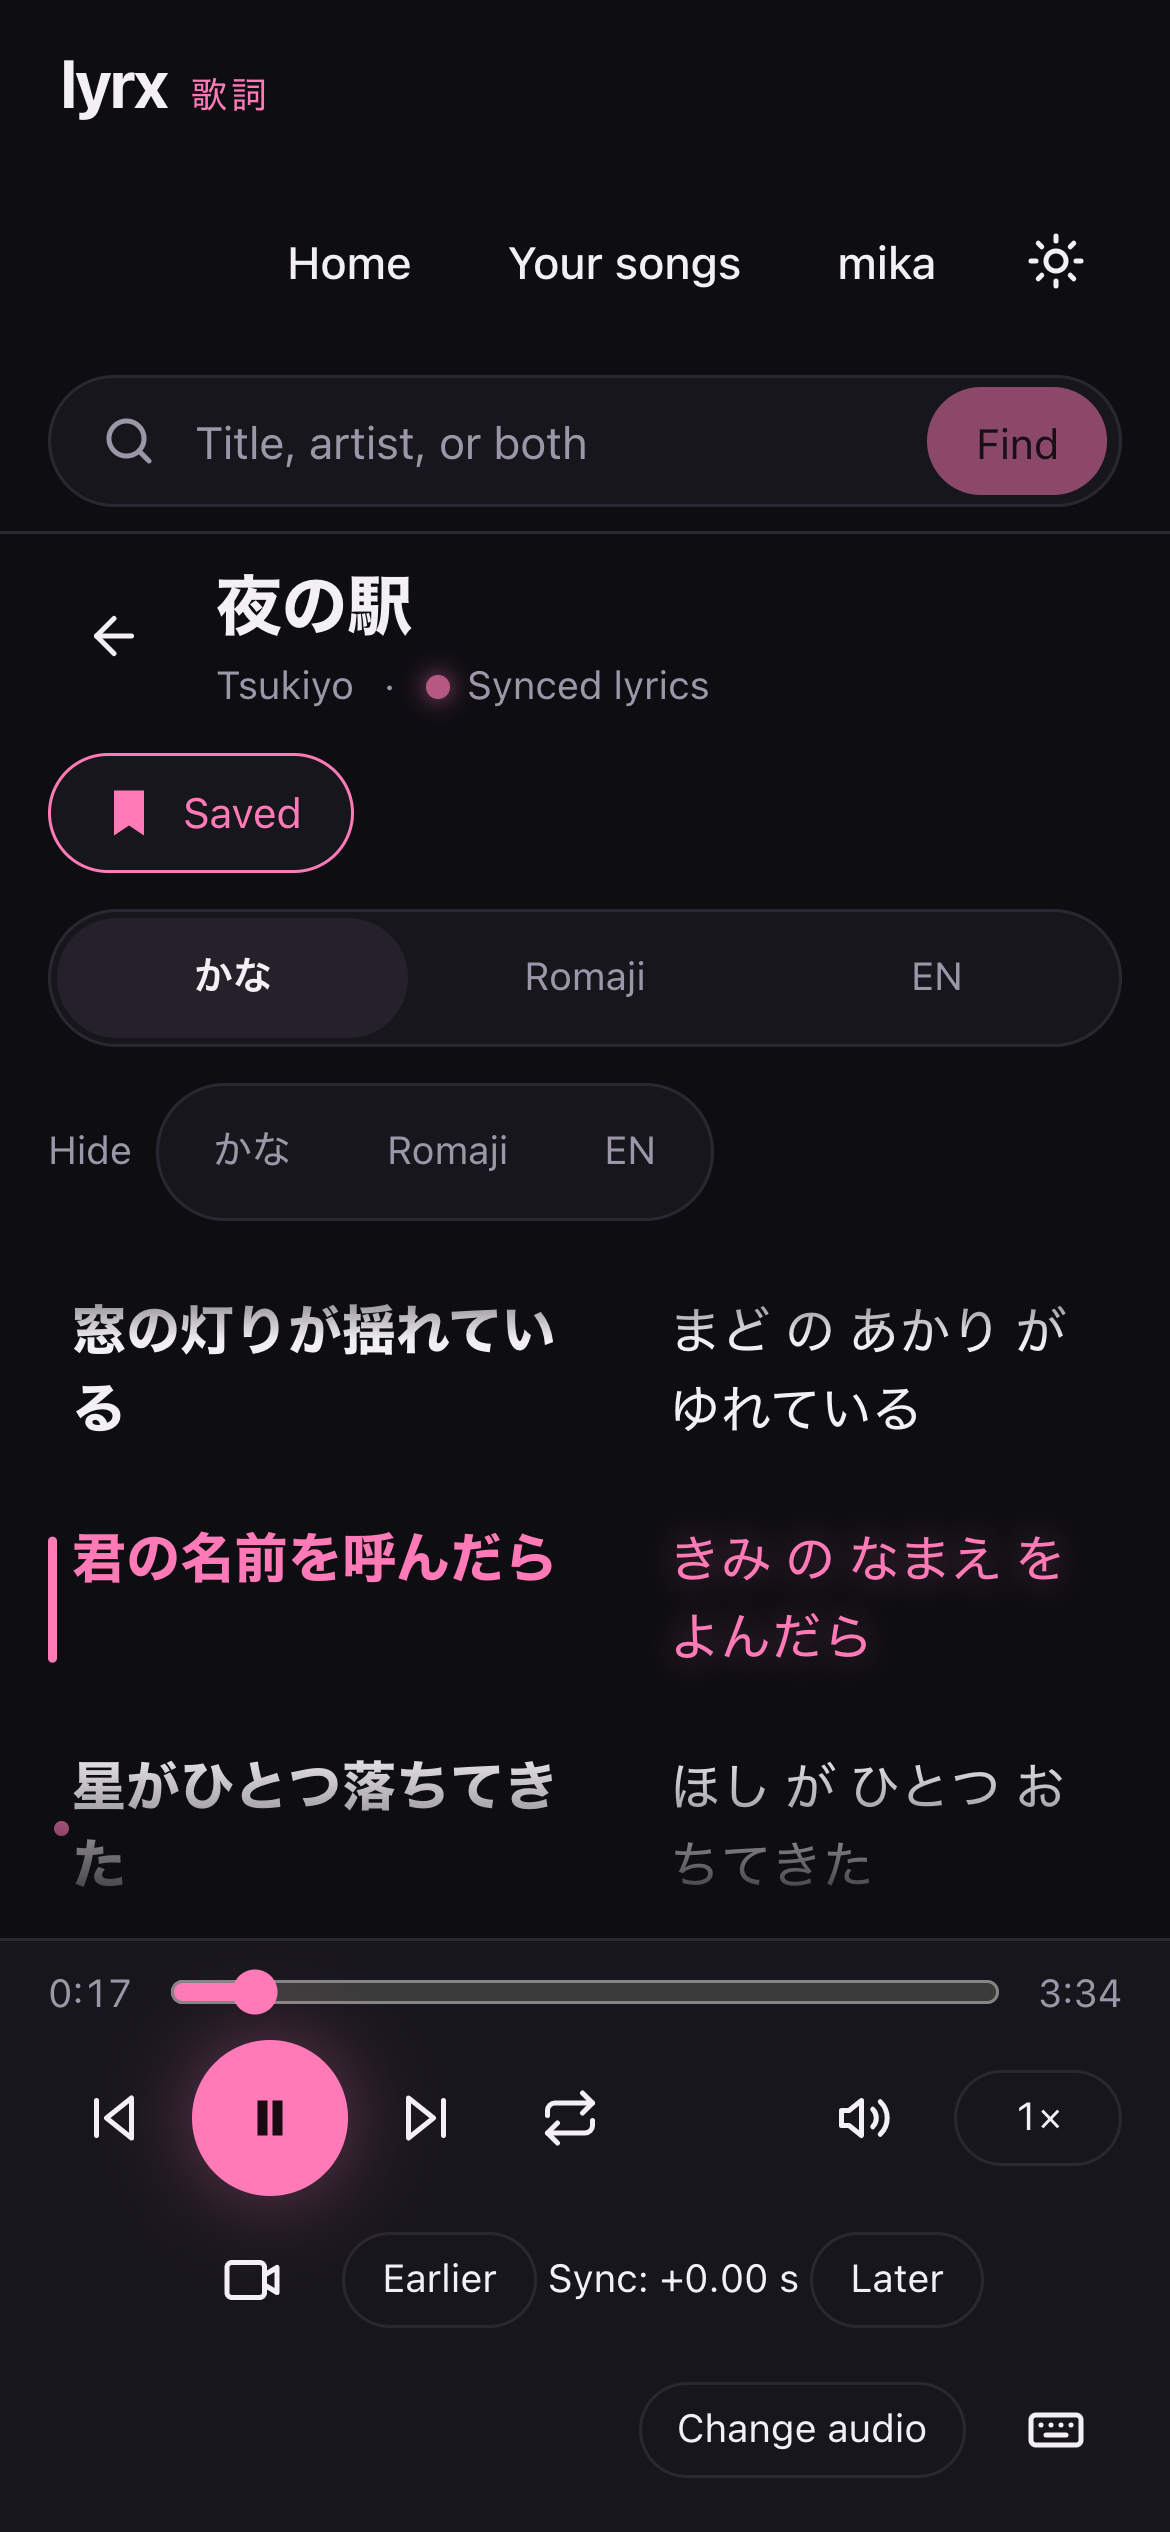
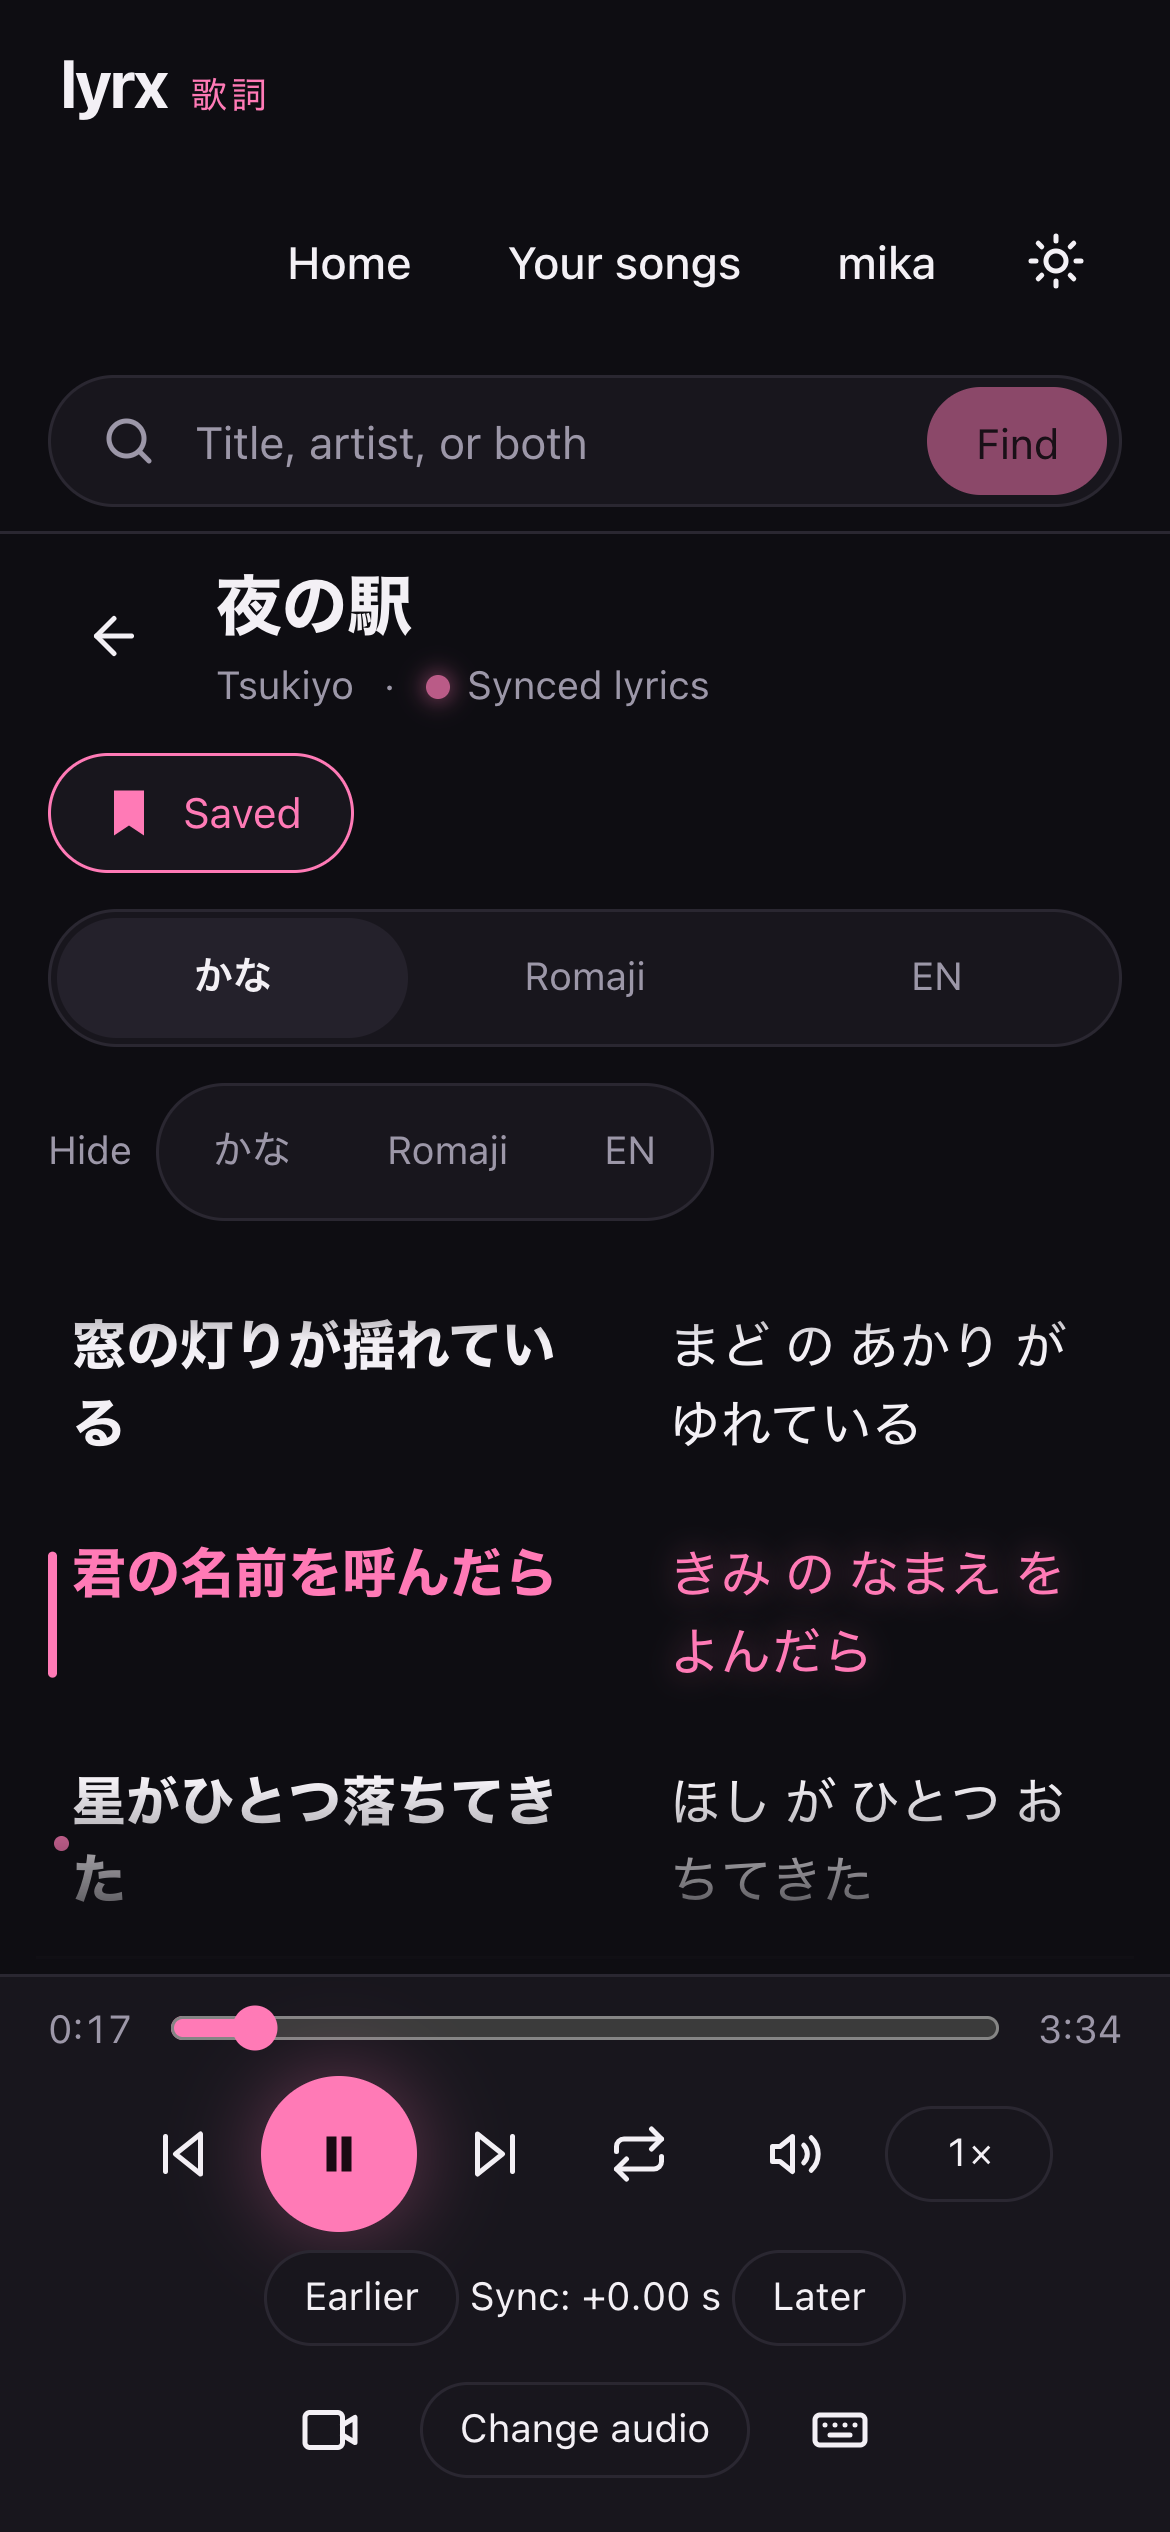
Spec 027: header search stays while loading, centered phone player bar, README tweaks, fresh media.

diff --git a/frontend/src/App.test.tsx b/frontend/src/App.test.tsx
@@ -501,6 +501,28 @@ test("AC-5: while searching, the steps and the seconds show", async () => {
   vi.useRealTimers();
 });
 
+test("searching from home keeps the header search box for the whole wait", async () => {
+  fakeFetch.mockImplementation((input, init) =>
+    urlOf(input) === "/api/song-search"
+      ? new Promise<Response>(() => undefined)
+      : Promise.resolve(
+          init?.method === undefined || init.method === "GET"
+            ? jsonResponse(
+                200,
+                urlOf(input) === "/api/account"
+                  ? { username: "mika" }
+                  : { songs: [] },
+              )
+            : jsonResponse(404, { code: "not_found", message: "x" }),
+        ),
+  );
+
+  await findSong();
+
+  expect(await screen.findByText(/Finding the song…/)).toBeTruthy();
+  expect(screen.getAllByRole("search")).toHaveLength(1);
+});
+
 test("the timing line says how long finding and the versions took", async () => {
   respond("POST /api/song-search", jsonResponse(200, { results: [bestMatch] }));
   respond("POST /api/song-versions", songReply(bestMatch));

diff --git a/frontend/src/styles.css b/frontend/src/styles.css
@@ -1665,7 +1665,8 @@ button:disabled {
     display: none;
   }
 
-  /* Two rows under the slider: transport and video, then sync and Change audio. */
+  /* Three centered rows under the slider: transport, Mute, and speed; then sync; then the video
+     toggle, Change audio, and the shortcuts button. */
   .player-bar {
     padding: 0.5rem 1rem 0.75rem;
   }
@@ -1679,12 +1680,10 @@ button:disabled {
     flex-basis: 100%;
   }
 
-  .transport {
-    flex: 1;
-  }
-
   .sync {
     order: 2;
+    flex-basis: 100%;
+    justify-content: center;
   }
 
   .link-form {
@@ -1707,9 +1706,9 @@ button:disabled {
     min-width: 5rem;
   }
 
+  .video-toggle,
   .change-audio {
     order: 3;
-    margin-left: auto;
   }
 
   /* On a phone the shortcuts button joins the row again, after Change audio. */

diff --git a/frontend/src/header/Header.tsx b/frontend/src/header/Header.tsx
@@ -9,7 +9,7 @@ import { ThemeButton } from "./ThemeButton";
 interface HeaderProps {
   busy: boolean;
   onSearch: (query: string) => void;
-  // False on the home page, which has its own large search box.
+  // False on the home page, which has its own large search box, except while a song loads.
   showSearch: boolean;
   // Which page is shown, so its link is marked as the current page.
   currentPage: Route["page"];

diff --git a/frontend/src/player/PlayerControls.tsx b/frontend/src/player/PlayerControls.tsx
@@ -158,7 +158,7 @@ export function PlayerControls(props: PlayerControlsProps) {
       {props.hasVideo && (
         <button
           type="button"
-          className="icon-button"
+          className="icon-button video-toggle"
           aria-label="Show video"
           aria-pressed={props.videoShown}
           onClick={props.onToggleVideo}

diff --git a/frontend/src/App.tsx b/frontend/src/App.tsx
@@ -305,7 +305,7 @@ export function App() {
         {!focus && (
           <Header
             busy={busy}
-            showSearch={route.page !== "home"}
+            showSearch={route.page !== "home" || busy}
             currentPage={route.page}
             onSearch={(query) => {
               void find(query);

diff --git a/README.md b/README.md
@@ -35,9 +35,16 @@
   <img src="docs/screenshots/song-dark.png" alt="A song in four columns, the sung line highlighted, the video window and the player bar" width="880">
 </p>
 
-| Light theme | Your songs |
-|---|---|
-| ![The same song in the light theme](docs/screenshots/song-light.png) | ![The library: saved songs as tiles, sorted by recent](docs/screenshots/library.png) |
+<table>
+  <tr>
+    <th width="50%">Light theme</th>
+    <th width="50%">Your songs</th>
+  </tr>
+  <tr>
+    <td width="50%"><img src="docs/screenshots/song-light.png" alt="The same song in the light theme" width="100%"></td>
+    <td width="50%"><img src="docs/screenshots/library.png" alt="The library: saved songs as tiles, sorted by recent" width="100%"></td>
+  </tr>
+</table>
 
 <p align="center">
   <img src="docs/screenshots/home.png" alt="Home: the example line, the large search box, Continue, and songs already in Lyrx" width="680">
@@ -184,12 +191,6 @@ lyrx/
 ├── scripts/                  check.sh and check-quiet.sh
 └── AGENTS.md                 The rules every contributor (human or agent) follows
 ```
-
-## Roadmap
-
-- [x] Search, four versions, saved songs, synced playback, study tools, accounts
-- [ ] Public hosting with Docker and Caddy
-- [ ] More languages, one at a time (Korean next: hangul, romanization, English)
 
 ## How this project is built
 

diff --git a/specs/027-tidy-codebase/spec.md b/specs/027-tidy-codebase/spec.md
@@ -85,6 +85,12 @@ Make the code easier to find your way around, with no change in behaviour: a cle
 - AC-7: The README folder map matches the tree, and every image it links exists.
 - AC-8: The screenshots show the current design (taken from the running app, invented or LRCLIB-free demo content only where lyrics would show; no real lyrics committed beyond what the existing screenshots already show).
 
+## Added after review (asked for by the user, 2026-11-20)
+
+- The header keeps its search box during the whole wait after a search from home (it used to appear halfway, when the address changed).
+- On a phone, the player bar sits in centered rows: transport, Mute, and speed; then sync; then video, Change audio, and shortcuts.
+- README: no roadmap; Light theme and Your songs share the width equally.
+
 ## Left alone (flagged for you)
 
 - `database.upgrade_saved_songs`: the one-time upgrade of a database from before accounts. It is dead once every copy is upgraded. Remove it when you're sure the server's file is new.
